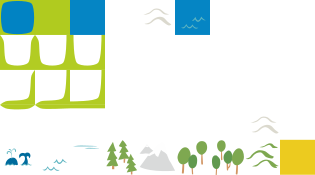
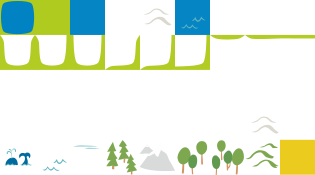
paysage is visible

Changed region(s): [[0.0, 0.2, 1.0, 0.6286]]

diff --git a/microcol-game/src/main/java/org/microcol/gui/image/GrasslandImageLoader.java b/microcol-game/src/main/java/org/microcol/gui/image/GrasslandImageLoader.java
@@ -28,20 +28,20 @@ public class GrasslandImageLoader implements ImageLoader {
 
 		// L-shape
 		addCycle(imageProvider, "l-shapeSouthEast-", "l-shapeSouthWest-", "l-shapeNorthWest-", "l-shapeNorthEast-", '3', '9',
-				getImg(imageProvider, "type02"));
+				getImg(imageProvider, "type31"));
 		addCycle(imageProvider, "l-shapeSouthEast-", "l-shapeSouthWest-", "l-shapeNorthWest-", "l-shapeNorthEast-", '2', '9',
-				getImg(imageProvider, "type12"));
+				getImg(imageProvider, "type41"));
 		addCycle(imageProvider, "l-shapeSouthEast-", "l-shapeSouthWest-", "l-shapeNorthWest-", "l-shapeNorthEast-", '3', 'a',
 				getImg(imageProvider, "l-shapeSouthEast-29").getImageTranspose());
 		addCycle(imageProvider, "l-shapeSouthEast-", "l-shapeSouthWest-", "l-shapeNorthWest-", "l-shapeNorthEast-", '2', 'a',
-				getImg(imageProvider, "type22"));
+				getImg(imageProvider, "type51"));
 
 		// I-shape
-		addCycle(imageProvider, "i-shapeNorth-", "i-shapeEast-", "i-shapeSouth-", "i-shapeWest-", '0', '3', getImg(imageProvider, "type03"));
-		addCycle(imageProvider, "i-shapeNorth-", "i-shapeEast-", "i-shapeSouth-", "i-shapeWest-", '0', '4', getImg(imageProvider, "type13"));
+		addCycle(imageProvider, "i-shapeNorth-", "i-shapeEast-", "i-shapeSouth-", "i-shapeWest-", '0', '3', getImg(imageProvider, "type61"));
+		addCycle(imageProvider, "i-shapeNorth-", "i-shapeEast-", "i-shapeSouth-", "i-shapeWest-", '0', '4', getImg(imageProvider, "type71"));
 		addCycle(imageProvider, "i-shapeNorth-", "i-shapeEast-", "i-shapeSouth-", "i-shapeWest-", 'b', '3',
 				getImg(imageProvider, "i-shapeNorth-04").getImageReverseRows());
-		addCycle(imageProvider, "i-shapeNorth-", "i-shapeEast-", "i-shapeSouth-", "i-shapeWest-", 'b', '4', getImg(imageProvider, "type23"));
+		addCycle(imageProvider, "i-shapeNorth-", "i-shapeEast-", "i-shapeSouth-", "i-shapeWest-", 'b', '4', getImg(imageProvider, "type81"));
 
 		// II-shape
 		generateII_shape(imageProvider, Connector.of('0'), Connector.of('3'));

diff --git a/microcol-game/src/main/java/org/microcol/gui/image/MapImageGenerator.java b/microcol-game/src/main/java/org/microcol/gui/image/MapImageGenerator.java
@@ -10,6 +10,7 @@ import org.microcol.model.TerrainType;
 import org.microcol.model.WorldMap;
 
 import com.google.common.base.Preconditions;
+import com.google.common.collect.ImmutableMap;
 import com.google.common.collect.Lists;
 import com.google.inject.Inject;
 
@@ -199,17 +200,25 @@ public class MapImageGenerator {
 		final TerrainType ttSouth = getTerrainTypeAt(loc.add(Location.DIRECTION_SOUTH));
 		final TerrainType ttWest = getTerrainTypeAt(loc.add(Location.DIRECTION_WEST));
 		if (ttNorth.isSee() && ttEast.isSee() && ttSouth.isSee() && ttWest.isSee()) {
-			return ImageProvider.IMG_TILE_OCEAN;
+			final TerrainType tt = getTerrainTypeAt(loc);
+			return terrainMap.get(tt);
 		} else {
 			return null;
 		}
 	}
+	
+	private Map<TerrainType, String> terrainMap = ImmutableMap.<TerrainType, String>builder()
+			.put(TerrainType.GRASSLAND, ImageProvider.IMG_TILE_GRASSLAND)
+			.put(TerrainType.OCEAN, ImageProvider.IMG_TILE_OCEAN)
+			.put(TerrainType.TUNDRA, ImageProvider.IMG_TILE_TUNDRA)
+			.put(TerrainType.ARCTIC, ImageProvider.IMG_TILE_ARCTIC)
+			.put(TerrainType.HIGH_SEA, ImageProvider.IMG_TILE_HIGH_SEA)
+			.build();
 
 	private String isItLand(final Location loc) {
 		final TerrainType tt = getTerrainTypeAt(loc);
 		if (tt.isLand()) {
-			//TODO improve image selection.
-			return ImageProvider.IMG_TILE_GRASSLAND;
+			return terrainMap.get(tt);
 		} else {
 			return null;
 		}

diff --git a/microcol-game/src/main/java/org/microcol/gui/gamepanel/PaintService.java b/microcol-game/src/main/java/org/microcol/gui/gamepanel/PaintService.java
@@ -168,10 +168,12 @@ public class PaintService {
 	 */
 	public void paintTerrainOnTile(final GraphicsContext graphics, final Point point, final Location location,
 			final Terrain terrain, final boolean isHighlighted) {
+		//terrain tile
 		graphics.drawImage(imageProvider.getTerrainImage(terrain.getTerrainType()), 0, 0,
 				GamePanelView.TILE_WIDTH_IN_PX, GamePanelView.TILE_WIDTH_IN_PX, point.getX(), point.getY(),
 				GamePanelView.TILE_WIDTH_IN_PX, GamePanelView.TILE_WIDTH_IN_PX);
 		final Image image = mapManager.getImageAt(location);
+		//prechod
 		graphics.drawImage(image, 0, 0,
 				GamePanelView.TILE_WIDTH_IN_PX, GamePanelView.TILE_WIDTH_IN_PX, point.getX(), point.getY(),
 				GamePanelView.TILE_WIDTH_IN_PX, GamePanelView.TILE_WIDTH_IN_PX);
